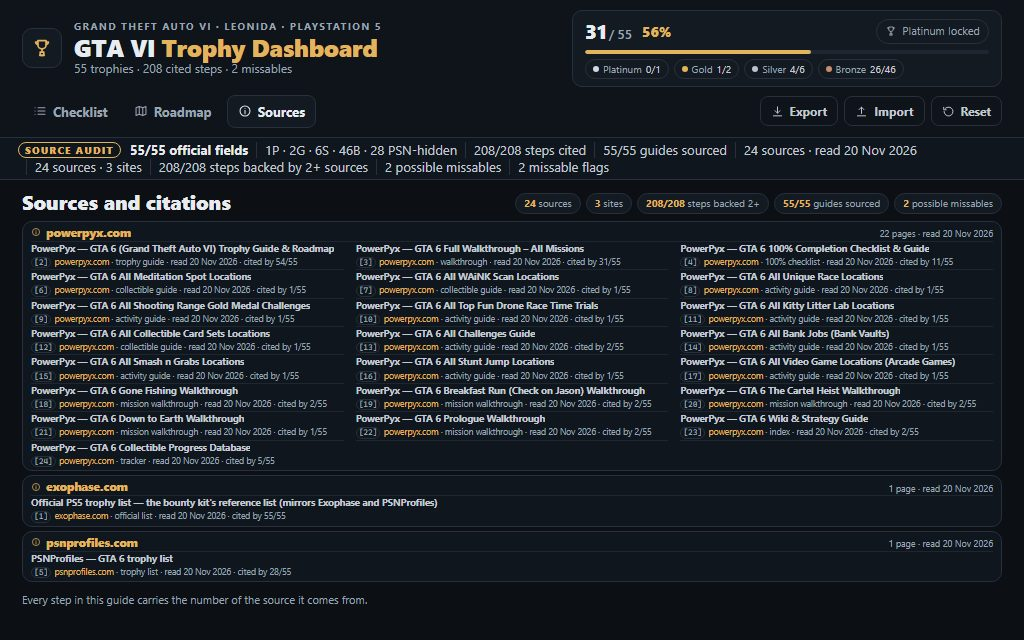
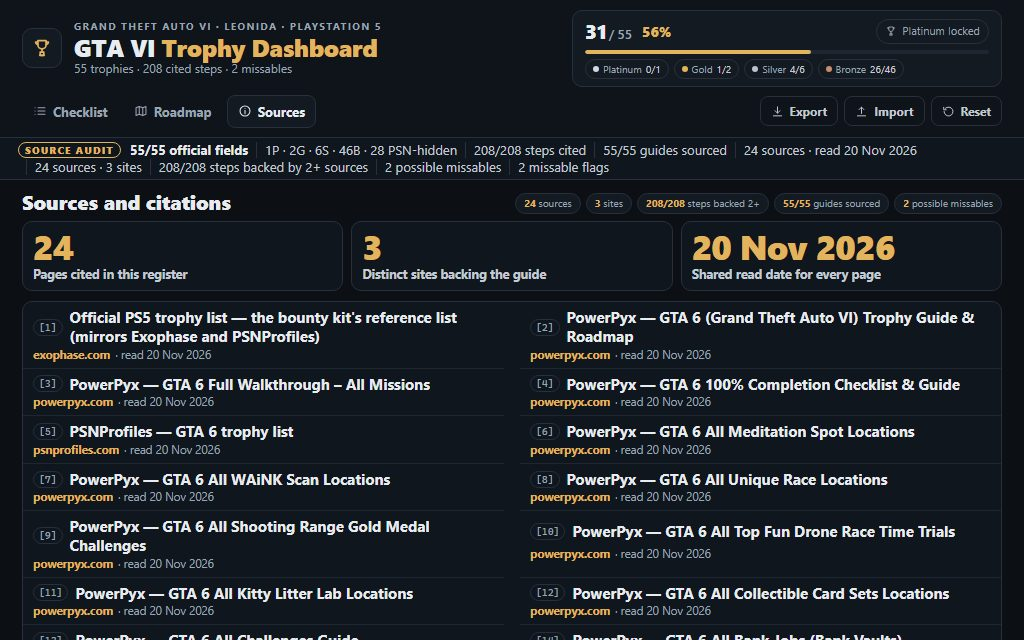
Sources tab: three breadth stats over a two-column register, recaptured so the cell reads

Changed region(s): [[0.0312, 0.3438, 0.9688, 1.0], [0.5, 0.9062, 0.9375, 1.0]]

diff --git a/app/app.js b/app/app.js
@@ -721,33 +721,40 @@ function renderSourceRegister() {
     if (!groups.has(site)) groups.set(site, []);
     groups.get(site).push(source);
   }
-  const ordered = [...groups.entries()].sort((left, right) => right[1].length - left[1].length || left[0].localeCompare(right[0]));
-  for (const [site, entries] of ordered) {
-    entries.sort((left, right) => Number(left.id) - Number(right.id));
-    const group = createNode('li', 'source-site-group');
-    const head = createNode('div', 'source-site-head');
-    const title = createNode('div', 'source-site-title');
-    title.append(createSpriteIcon('i-info'), createNode('h3', 'source-site-domain', site));
-    const dates = [...new Set(entries.map((entry) => formatSourceReadDate(entry.read)))].join(', ');
-    head.append(title, createNode('span', 'source-site-count', entries.length + ' page' + (entries.length === 1 ? '' : 's') + ' · read ' + dates));
-    const rows = createNode('ul', 'source-list source-site-list' + (entries.length === 1 ? ' source-site-list--single' : ''));
-    for (const source of entries) {
-      const cited = TROPHY_REGISTER.trophies.filter((trophy) => Array.isArray(trophy.sources) && trophy.sources.map(Number).includes(Number(source.id))).length;
-      const row = createNode('li', 'source-row source-row--dense');
-      const top = createNode('div', 'source-row-top');
-      top.append(createNode('strong', '', source.title));
-      const link = createNode('a', '', site);
-      link.href = source.url;
-      link.target = '_blank';
-      link.rel = 'noopener noreferrer';
-      link.title = source.url;
-      const meta = createNode('div', 'source-meta');
-      meta.append(createNode('span', 'chip chip--id', '[' + source.id + ']'), document.createTextNode(' '), link, document.createTextNode(' · ' + source.kind + ' · read ' + formatSourceReadDate(source.read) + ' · cited by ' + cited + '/' + total));
-      row.append(top, meta);
-      rows.append(row);
-    }
-    group.append(head, rows);
-    list.append(group);
+  const readDates = [...new Set(SOURCE_REGISTER.sources.map((source) => String(source.read || '').trim()).filter(Boolean))];
+  const sharedReadDate = readDates.length === 1
+    ? formatSourceReadDate(readDates[0])
+    : SOURCE_REGISTER.readDate
+      ? formatSourceReadDate(SOURCE_REGISTER.readDate)
+      : readDates.map(formatSourceReadDate).join(' / ');
+  const breadth = DOM_BY_ID['sources-breadth'];
+  if (breadth) {
+    const stats = [
+      { value: SOURCE_REGISTER.sources.length, label: 'Pages cited in this register' },
+      { value: groups.size, label: 'Distinct sites backing the guide' },
+      { value: sharedReadDate, label: 'Shared read date for every page' },
+    ];
+    breadth.replaceChildren(...stats.map(({ value, label }) => {
+      const block = createNode('div', 'sources-stat');
+      block.append(createNode('span', 'sources-stat-value', value), createNode('span', 'sources-stat-label', label));
+      return block;
+    }));
+  }
+  for (const source of SOURCE_REGISTER.sources) {
+    const site = sourceDomainLabel(source.url);
+    const row = createNode('li', 'source-row source-row--register');
+    row.title = '[' + source.id + '] ' + source.title + ' \u2014 ' + source.url;
+    const top = createNode('div', 'source-row-top');
+    top.append(createNode('span', 'chip chip--id', '[' + source.id + ']'), createNode('strong', 'source-register-title', source.title));
+    const link = createNode('a', '', site);
+    link.href = source.url;
+    link.target = '_blank';
+    link.rel = 'noopener noreferrer';
+    link.title = source.url;
+    const meta = createNode('div', 'source-meta');
+    meta.append(link, document.createTextNode(' · read ' + formatSourceReadDate(source.read)));
+    row.append(top, meta);
+    list.append(row);
   }
   const summary = DOM_BY_ID['sources-summary'];
   if (summary) {

diff --git a/app/style.css b/app/style.css
@@ -785,40 +785,58 @@ select {
 .notes-list { margin: 0; padding-left: 16px; font-size: 12px; color: var(--muted); }
 .notes-list li + li { margin-top: 2px; }
 .roadmap-foot { margin: 10px 0 0; font-size: 11px; color: var(--muted); }
-#sources-read-with-dates { max-width: none; display: grid; gap: 4px; }
-.source-site-group {
+.sources-breadth {
+  display: grid;
+  grid-template-columns: repeat(3, minmax(0, 1fr));
+  gap: 8px;
+  margin: 8px 0 10px;
+}
+.sources-stat {
+  min-width: 0;
+  padding: 7px 10px 8px;
   border: 1px solid var(--line);
   background: var(--surface-2);
   border-radius: var(--radius);
-  padding: 4px 8px 2px;
-  min-width: 0;
 }
-.source-site-head {
-  display: flex; align-items: baseline; justify-content: space-between;
-  gap: 8px;
-  border-bottom: 1px solid var(--line-soft);
-  padding-bottom: 2px;
-  margin-bottom: 0;
+.sources-stat-value {
+  display: block;
+  font-size: 34px; line-height: 1.05; font-weight: 800;
+  color: var(--accent);
+  letter-spacing: -.02em;
+  white-space: nowrap;
 }
-.source-site-title { display: flex; align-items: center; gap: 5px; min-width: 0; }
-.source-site-title .icon { width: 10px; height: 10px; color: var(--accent); flex: none; }
-.source-site-domain { margin: 0; font-size: 11.5px; line-height: 1.15; font-weight: 800; color: var(--accent); }
-.source-site-count { font-size: 9px; line-height: 1.15; color: var(--muted); white-space: nowrap; }
-.source-site-list {
-  display: grid;
-  grid-template-columns: repeat(3, minmax(0, 1fr));
-  gap: 0 12px;
-}
-.source-site-list--single { grid-template-columns: minmax(0, 1fr); }
-.source-row--dense { padding: 1px 0; border-bottom: 1px solid var(--line-soft); }
-.source-row--dense .source-row-top { gap: 3px; }
-.source-row--dense .source-row-top strong {
-  font-size: 9.5px; line-height: 1.18; font-weight: 650;
+.sources-stat-label {
+  display: block;
+  margin-top: 3px;
+  font-size: 12.5px; line-height: 1.2; font-weight: 650;
+  color: var(--text-2);
   white-space: nowrap; overflow: hidden; text-overflow: ellipsis;
 }
-.source-row--dense .source-meta { font-size: 8.5px; line-height: 1.15; white-space: nowrap; overflow: hidden; text-overflow: ellipsis; }
-.source-row--dense .source-meta a { font-size: 8.5px; color: var(--accent); }
-.source-row--dense .source-meta .chip--id { font-size: 8px; line-height: 1.15; padding: 0 2px; margin-right: 1px; }
+#sources-read-with-dates {
+  max-width: none;
+  display: grid;
+  grid-template-columns: minmax(0, 1fr);
+  gap: 0;
+  border: 1px solid var(--line);
+  border-radius: var(--radius);
+  background: var(--surface-2);
+  overflow: hidden;
+}
+.source-row--register { padding: 6px 10px; border-bottom: 1px solid var(--line-soft); }
+.source-row--register .source-row-top { align-items: center; gap: 7px; }
+.source-row--register .source-register-title {
+  font-size: 15px; line-height: 1.25; font-weight: 650;
+  color: var(--text);
+  overflow-wrap: anywhere;
+}
+.source-row--register .source-meta {
+  display: flex; align-items: baseline; flex-wrap: wrap; gap: 0 5px;
+  font-size: 11.5px; line-height: 1.2; color: var(--muted);
+}
+.source-row--register .source-meta a { font-size: 11.5px; line-height: 1.2; color: var(--accent); font-weight: 650; }
+@media (min-width: 900px) {
+  #sources-read-with-dates { grid-template-columns: repeat(2, minmax(0, 1fr)); column-gap: 16px; }
+}
 .sources-head .roadmap-sub { font-size: 12.5px; max-width: none; }
 .sources-head .roadmap-title { font-size: 20px; }
 .sources-head + * { margin-top: 0; }

diff --git a/app/index.html b/app/index.html
@@ -268,10 +268,11 @@
         <div class="sources-head">
           <div>
             <h2 class="roadmap-title">Sources and citations</h2>
-            <p class="sr-only">Every page this guide was built from, grouped by site with its read date and the guides it backs. All counts are computed from the register and trophy list at load time.</p>
+            <p class="sr-only">Every page this guide was built from, with its domain, read date and the guides it backs. All counts are computed from the register and trophy list at load time.</p>
           </div>
           <div class="roadmap-summary" id="sources-summary"></div>
         </div>
+        <div class="sources-breadth" id="sources-breadth" aria-label="source register breadth, page count, distinct site count and shared read date"></div>
         <ul class="source-list" id="sources-read-with-dates" aria-label="sources read with dates"></ul>
         <p class="roadmap-foot">Every step in this guide carries the number of the source it comes from.</p>
       </div>
